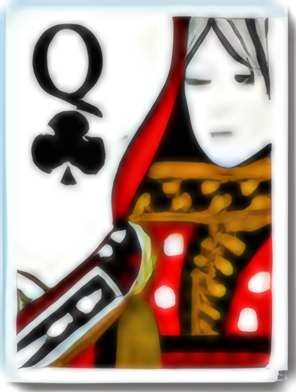
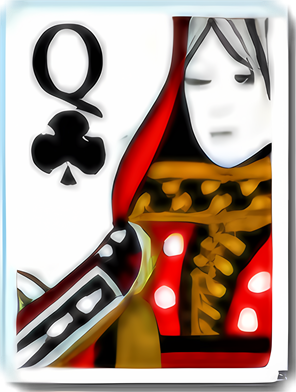
Sharpen the court-card art with Real-ESRGAN
- J, Q and K faces (12 files) upscaled with the Real-ESRGAN illustration
  model and scaled back to 296x392; transparent corners kept
- Court cards load at full size instead of half size, so the extra
  detail is not thrown away

diff --git a/app/src/main/java/com/an0obis/bridge/ui/solo/CardViews.kt b/app/src/main/java/com/an0obis/bridge/ui/solo/CardViews.kt
@@ -49,8 +49,10 @@ object CardArt {
     /** [card] == null gives the card back. */
     fun card(context: Context, card: Card?): ImageBitmap {
         val name = if (card == null) "0" else "${card.rank}${"cdhs"[card.suit]}"
-        // the card back is already tiny; the faces are large, so load them at half size
-        return cache.getOrPut(name) { decode(context, "cards/$name.png", if (card == null) 1 else 2) }
+        // the card back is already tiny and the court cards are the detailed ones, so both load at full
+        // size; the plain number cards are large for what they show, so they load at half size
+        val sample = if (card == null || card.rank in 11..13) 1 else 2
+        return cache.getOrPut(name) { decode(context, "cards/$name.png", sample) }
     }
 
     fun cloth(context: Context): ImageBitmap = cache.getOrPut("greencloth") { decode(context, "cards/greencloth.png", 1) }
